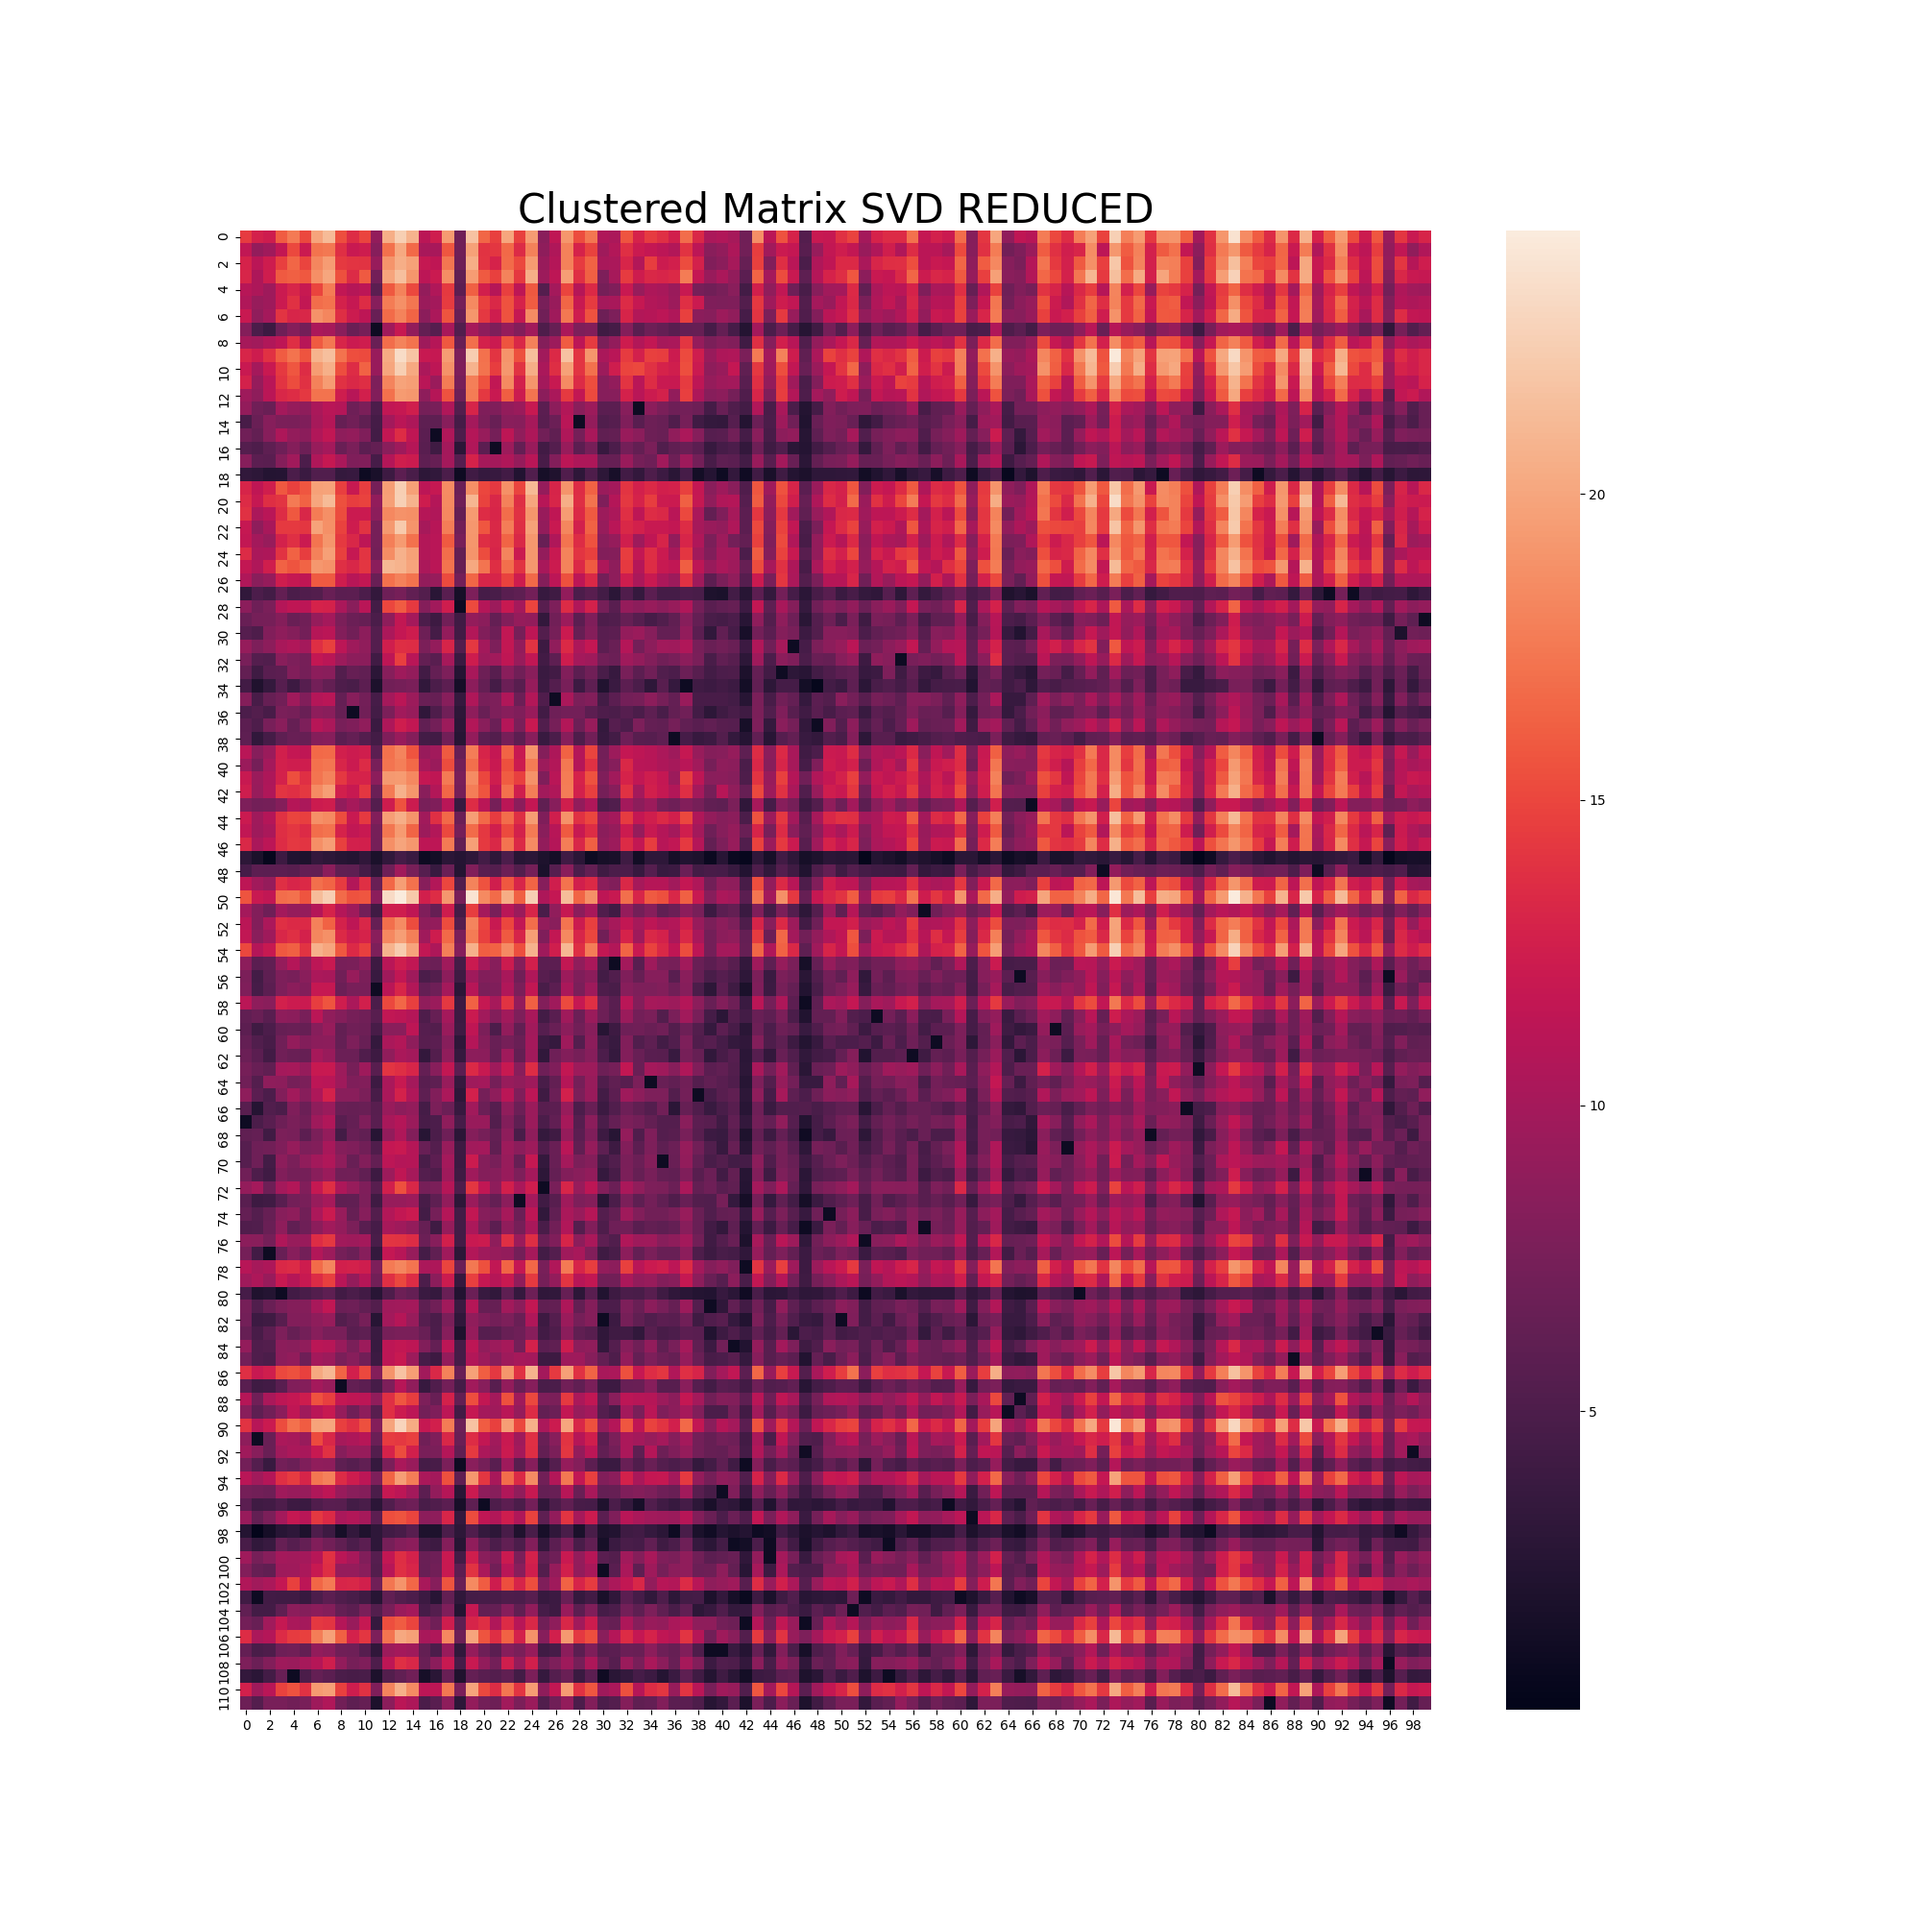
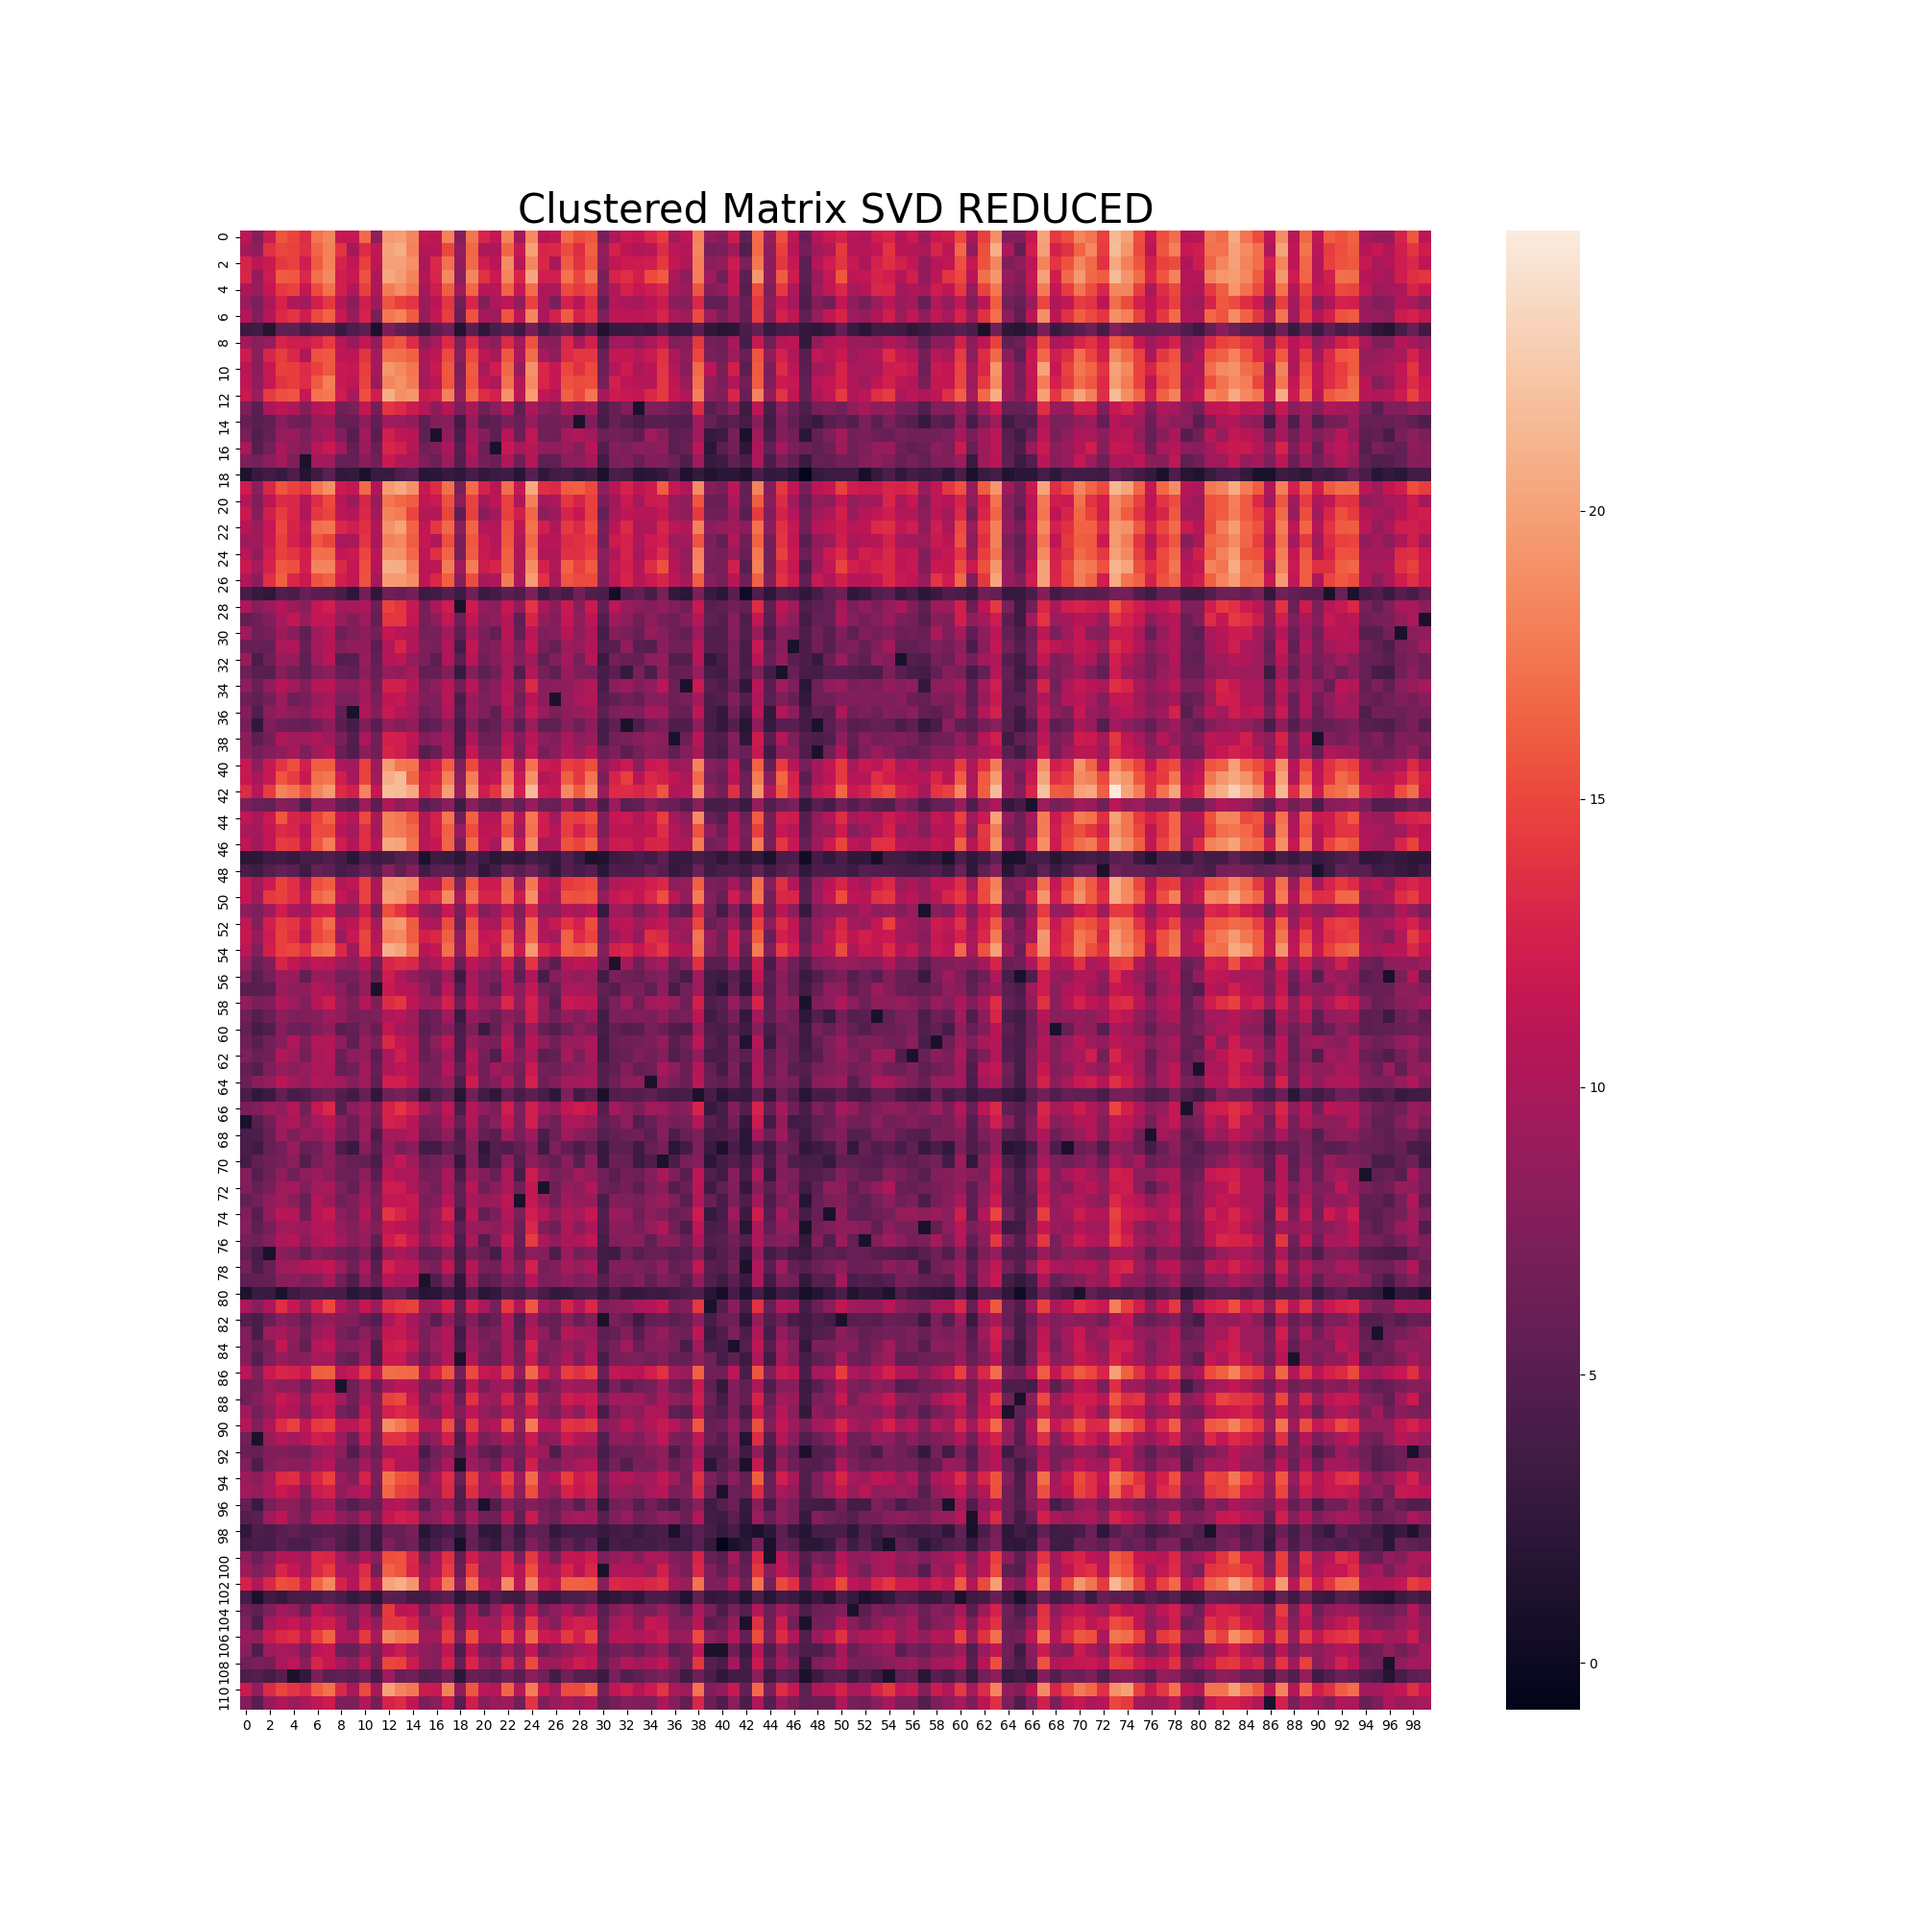
svd fix

Changed region(s): [[0.124, 0.093, 0.744, 0.899]]

diff --git a/src/svd.py b/src/svd.py
@@ -2,6 +2,7 @@ from numpy.linalg import matrix_rank
 import torch
 import numpy as np
 import matplotlib.pyplot as plt
+from src.utility_matrix import plot_hgram
 
 
 def construct_svd(clusters, sliced_matrix):
@@ -30,19 +31,11 @@ def construct_svd(clusters, sliced_matrix):
     rank = matrix_rank(clustered_matrix)
 
     # Perfom Stochastic Gradient Descent to find U,V for X=U@V.T
-
     epochs = 200
 
-    from src.utility_matrix import plot_hgram
-
     plot_hgram(clustered_matrix,'Clustered Matrix before SVD')
-
     U, V = sgd(clustered_matrix, rank, num_epochs=epochs, a=0.01, lamda=0.01, calculate_loss='FALSE')
-
-    plot_hgram(U@V.t(),'Clustered Matrix SVD REDUCED')
-
-    # Performs multiplication of the two matrices  X=U@V.T
-    #new_clustered = svd(U, V, clustered_matrix)
+    plot_hgram(U@V.t(), 'Clustered Matrix SVD REDUCED')
 
     new_clustered = U@V.t()
 
@@ -73,16 +66,11 @@ def sgd(m, rank, num_epochs, a, lamda, calculate_loss):
     losses = []
     m = torch.from_numpy(m) #Cast the numpy matrix to Torch Tensor.
 
-
-    # n: number of user_clusters (112)
-    n = m.shape[0]
-    # k: number of hotel_clusters (100)
-    k = m.shape[1]
+    n = m.shape[0]  # n: number of user_clusters (112)
+    k = m.shape[1]  # k: number of hotel_clusters (100)
     # Define U and V
-    # U[N,rank] N: number of user clusters
-    # V[rank,K] K: number of hotel clusters
-    U = torch.rand(n, rank)
-    V = torch.rand(k, rank)
+    U = torch.rand(n, rank)  # U[N,rank] N: number of user clusters
+    V = torch.rand(k, rank)  # V[K,rank] K: number of hotel clusters
     for epoch in range(num_epochs):
         for r in range(n):
             for c in range(k):
@@ -103,9 +91,58 @@ def sgd(m, rank, num_epochs, a, lamda, calculate_loss):
         plt.plot(range(len(losses)), losses)
         plt.savefig('figures/svd_plot_' + str(num_epochs) + 'epochs.png')
 
-
     return U, V
 
+
+def sgd_jozef(m, rank, num_epochs, a, lamda, calculate_loss):
+    """
+     Implements the Strochastic Gradient Descent.
+     Tries to find U and V that minimizes the sum square distance to M.
+     This is done through derivatives of the sum square distance to M,
+     with respect to U and V.
+     U and V are initialised to random values drawn from Gaussian distribution.
+     For the number of epochs:
+        the algorithm iterates over all known values of the M, and calculates the
+        new values of U and V based on the derivatives as shown below:
+        Ui := Ui + α((Mik − VkT Ui)Vk − λUi)
+        Vk := Vk + α((Mik − UiT Vk)Ui − λVk)
+
+    :param m: utility matrix
+    :param rank: the rank of the utility matrix M.
+    :param num_epochs: number of iterations
+    :param a: the learning rate
+    :param lamda: regularization parameter
+    :return: U,V
+    """
+
+    losses = []
+    binary_mask = np.ma.make_mask(m).astype(int)
+    m = torch.from_numpy(m) #Cast the numpy matrix to Torch Tensor.
+
+    n = m.shape[0]  # n: number of user_clusters (112)
+    k = m.shape[1]  # k: number of hotel_clusters (100)
+    # Define U and V
+    U = torch.rand(n, rank)  # U[N,rank] N: number of user clusters
+    V = torch.rand(k, rank)  # V[K,rank] K: number of hotel clusters
+    for epoch in range(num_epochs):
+        for r in range(n):
+            for c in range(k):
+                if m[r][c] > 0:
+                    e = binary_mask[r][c] - U[r, :] @ V[c, :].t()
+                    U[r, :] = U[r, :] + a * e * V[c, :]
+                    V[c, :] = V[c, :] + a * e * U[r, :]
+        if calculate_loss == 'TRUE':
+            print(epoch)
+            losses.append(torch.nn.functional.mse_loss(input=m, target=U @ V.t(), reduction='sum'))
+
+    if calculate_loss == 'TRUE':
+        plt.figure()
+        plt.ticklabel_format(style='plain')
+        plt.title('SVD LOSS epoch num %s rank %s' % (num_epochs, rank))
+        plt.plot(range(len(losses)), losses)
+        plt.savefig('figures/svd_plot_' + str(num_epochs) + 'epochs.png')
+
+    return U, V
 
 
 
